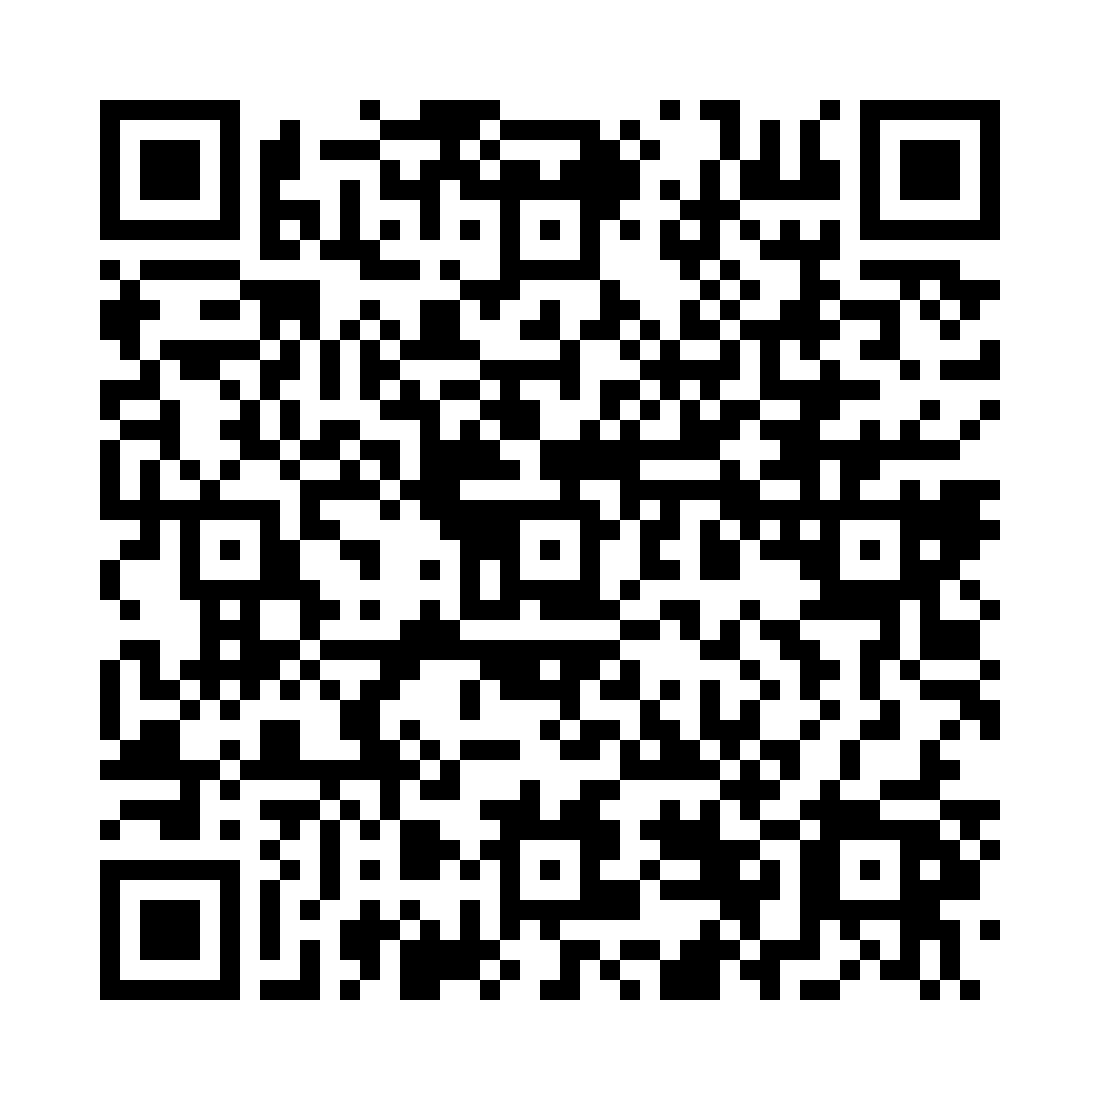
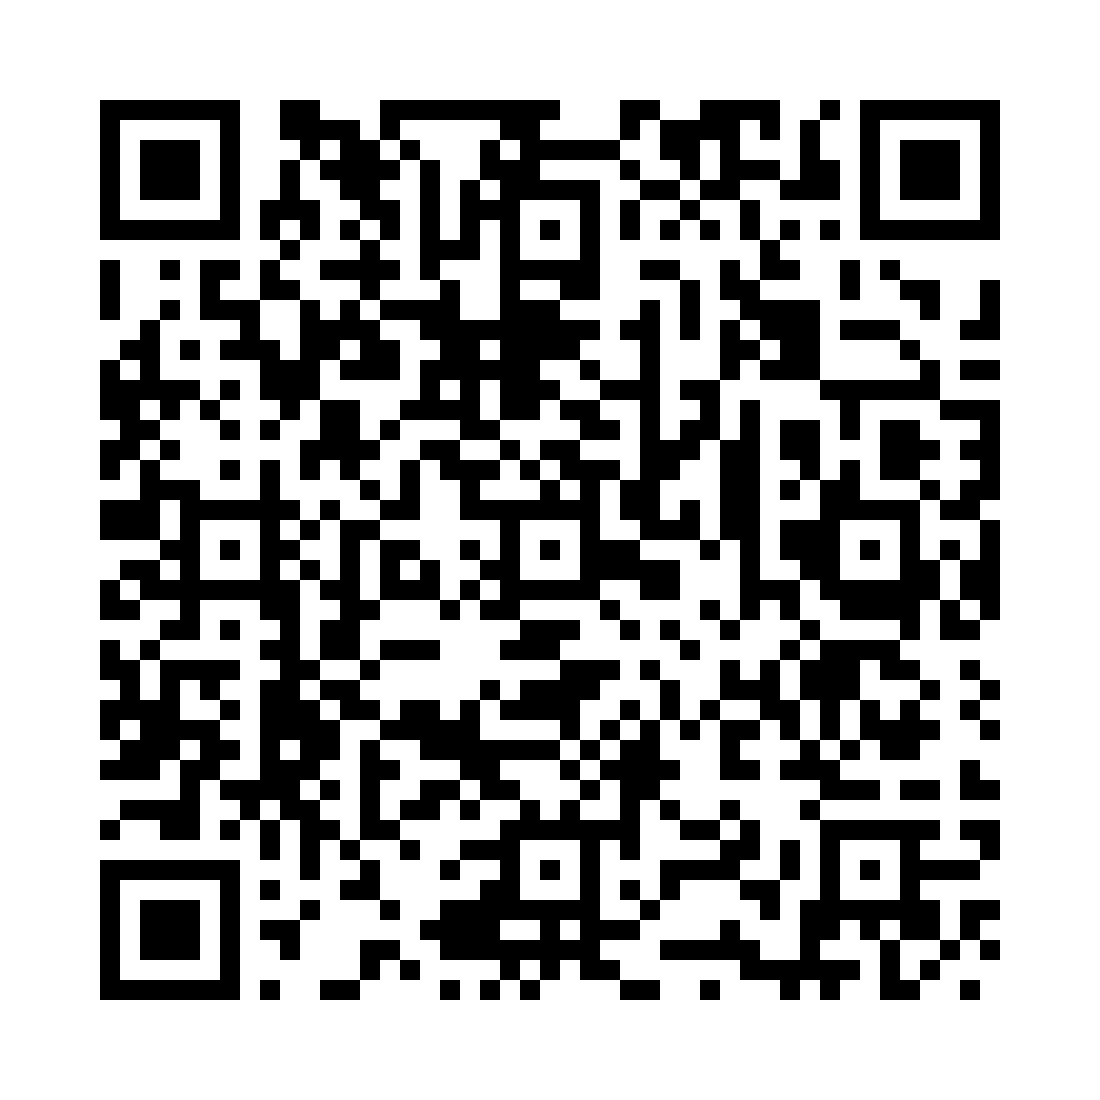
Publish build 74 download pages and verified QR

Changed region(s): [[0.0927, 0.0927, 0.9273, 0.9273]]

diff --git a/android.html b/android.html
@@ -216,10 +216,10 @@
             <li><span class="fact-mark" aria-hidden="true">✓</span><span>PDF、长图、图片资料、ZIP 与文件夹备份</span></li>
           </ul>
           <div class="actions">
-            <a class="primary-button" href="https://yuantu-casepro-downloads-d0255e8-1454163521.tcloudbaseapp.com/downloads/android/yuantu-casepro-android-0.1.70-71.apk" download>下载官网新版 0.1.70</a>
+            <a class="primary-button" href="https://yuantu-casepro-downloads-d0255e8-1454163521.tcloudbaseapp.com/downloads/android/yuantu-casepro-android-0.1.73-74.apk" download>下载官网新版 0.1.73</a>
             <a class="secondary-button" href="https://a.app.qq.com/o/simple.jsp?pkgname=com.csysum.casepro.android">应用宝商店版</a>
           </div>
-          <p class="compatibility">官网新版 0.1.70 新增音频资料：支持本机选择和外部分享，单项最高 2 GB，可播放、拖动进度、调倍速和分享原文件。音频原件包含在完整卡包与备份中，并修复 Android 大容量 ZIP64 卡包读取。已有用户可覆盖安装，保留原有资料；应用宝版本以商店为准。</p>
+          <p class="compatibility">官网新版 0.1.73 改进了公众号文章离线保存与中文查找。照片加入时间显示在大图下方，有可靠拍摄时间时一并显示。已有用户请直接覆盖安装，不要先卸载；应用宝版本以商店为准。</p>
         </div>
 
         <div class="product-download">
@@ -233,14 +233,14 @@
           <aside class="qr-panel" aria-label="官网新版下载二维码">
             <div class="qr-app">
               <img src="./assets/casepro-app-logo.png" alt="" />
-              <span>官网新版 0.1.70</span>
+              <span>官网新版 0.1.73</span>
             </div>
-            <a class="qr-link" href="https://yuantu-casepro-downloads-d0255e8-1454163521.tcloudbaseapp.com/downloads/android/yuantu-casepro-android-0.1.70-71.apk" aria-label="下载源图casepro 官网新版">
-              <img src="./downloads/android/yuantu-casepro-android-download-qr.png?v=0.1.70-71" alt="源图casepro 官网新版下载二维码" />
+            <a class="qr-link" href="https://yuantu-casepro-downloads-d0255e8-1454163521.tcloudbaseapp.com/downloads/android/yuantu-casepro-android-0.1.73-74.apk" aria-label="下载源图casepro 官网新版">
+              <img src="./downloads/android/yuantu-casepro-android-download-qr.png?v=0.1.73-74" alt="源图casepro 官网新版下载二维码" />
             </a>
             <p class="qr-caption">扫码下载官网新版</p>
             <p class="qr-note">微信内请转手机浏览器下载</p>
-            <a class="save-qr" href="./downloads/android/yuantu-casepro-android-download-qr.png?v=0.1.70-71" download="源图casepro-官网新版下载二维码.png">保存高清二维码</a>
+            <a class="save-qr" href="./downloads/android/yuantu-casepro-android-download-qr.png?v=0.1.73-74" download="源图casepro-官网新版下载二维码.png">保存高清二维码</a>
           </aside>
         </div>
       </div>
@@ -249,7 +249,7 @@
     <section class="trust-strip" aria-label="版本与合规信息">
       <dl class="shell trust-grid">
         <div><dt>官方渠道</dt><dd>应用宝 / 官网</dd></div>
-        <div><dt>当前版本</dt><dd>官网 0.1.70 · 应用宝商店版</dd></div>
+        <div><dt>当前版本</dt><dd>官网 0.1.73 · 应用宝商店版</dd></div>
         <div><dt>APP 备案号</dt><dd>粤ICP备2026107174号-1A</dd></div>
         <div><dt>资料存储</dt><dd>默认保存在本机</dd></div>
       </dl>
@@ -311,14 +311,14 @@
         <div class="section-heading">
           <p class="section-kicker">选择下载方式</p>
           <h2>官网新版已先行提供</h2>
-          <p class="section-copy">官网 0.1.70 新增音频资料的添加、播放、原文件分享及完整备份恢复，保留外部分享新建卡片、文章采集和完整实况资料；应用宝版本以商店为准。</p>
+          <p class="section-copy">官网 0.1.73 支持在离线文章中查看缺失提示，照片大图可区分加入和拍摄时间。应用宝版本以商店为准。</p>
         </div>
         <div>
           <div class="route-list">
             <div class="route-row">
               <div class="route-label">官网 APK<span class="recommended">当前新版</span></div>
               <p>完整卡片导出可选择“系统分享”或“保存到手机”。照片、视频与文件按资料类型归档；同内容资料不会重复添加。使用原发布签名，已有用户可覆盖安装，重要资料建议先备份。</p>
-              <a class="route-link" href="https://yuantu-casepro-downloads-d0255e8-1454163521.tcloudbaseapp.com/downloads/android/yuantu-casepro-android-0.1.70-71.apk" download>下载 0.1.70</a>
+              <a class="route-link" href="https://yuantu-casepro-downloads-d0255e8-1454163521.tcloudbaseapp.com/downloads/android/yuantu-casepro-android-0.1.73-74.apk" download>下载 0.1.73</a>
             </div>
             <div class="route-row">
               <div class="route-label">应用宝</div>
@@ -338,10 +338,10 @@
           <dl class="detail-grid">
             <dt>应用名</dt><dd>源图casepro</dd>
             <dt>包名</dt><dd><code>com.csysum.casepro.android</code></dd>
-            <dt>版本</dt><dd>0.1.70 (71)</dd>
+            <dt>版本</dt><dd>0.1.73 (74)</dd>
             <dt>APP 备案号</dt><dd><code>粤ICP备2026107174号-1A</code></dd>
-            <dt>安装包大小</dt><dd>47,029,174 bytes</dd>
-            <dt>文件 SHA256</dt><dd><code>7df2bff697dad10cdd2bd8c4c3a24b16097f3c850819c68ac77529d4c16be7a5</code></dd>
+            <dt>安装包大小</dt><dd>81,745,040 bytes</dd>
+            <dt>文件 SHA256</dt><dd><code>793defa5a894721639b55de1a40d273af9c4534d900e05e01569492aaa66bbac</code></dd>
             <dt>签名证书 SHA256</dt><dd><code>7ba168d650cb468b708af118172dfab45bf3fba75927a72a687595a1b5711c42</code></dd>
           </dl>
         </details>

diff --git a/index.html b/index.html
@@ -27,7 +27,7 @@
 
   <div class="card">
     <h2>Android 下载</h2>
-    <p>源图casepro Android 官网新版为 0.1.70 (71)，新增本机选择和外部分享添加音频，单项最高 2 GB，支持播放、进度、倍速和分享原文件。音频原件包含在完整卡包和完整备份中，并修复 Android 大容量 ZIP64 卡包读取。应用宝版本以商店为准。</p>
+    <p>源图casepro Android 官网新版为 0.1.73 (74)，改进公众号文章离线保存和中文查找；普通和实况照片的大图下方显示加入时间，有可靠记录时也显示拍摄时间。应用宝版本以商店为准。</p>
     <p><a href="./android.html">下载官网新版</a> · <a href="https://a.app.qq.com/o/simple.jsp?pkgname=com.csysum.casepro.android">应用宝官方下载</a></p>
   </div>
 
@@ -71,6 +71,6 @@
     <p>用户协议请见：<a href="./terms.html">用户协议</a></p>
   </div>
 
-  <p class="muted">最后更新：2026-10-14，官网新版 0.1.70 (71)，应用宝版本以商店为准</p>
+  <p class="muted">最后更新：2026-11-19，官网新版 0.1.73 (74)，应用宝版本以商店为准</p>
 </body>
 </html>
